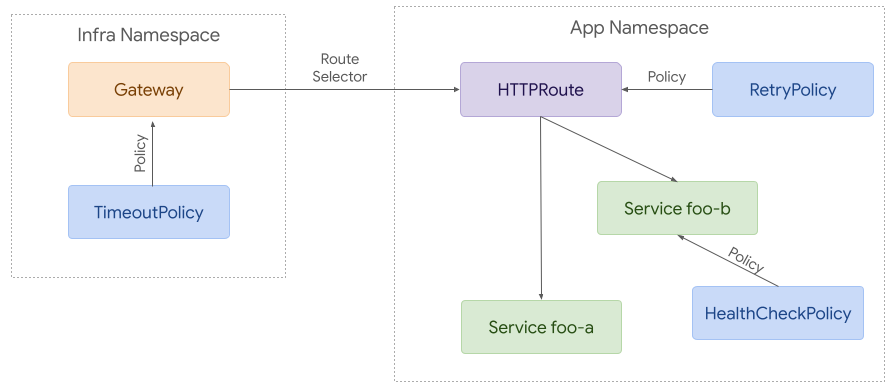
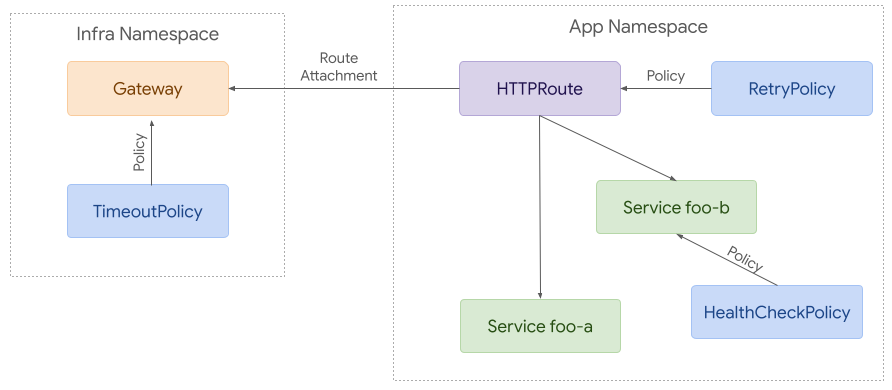
Updating Policy images to match new direction, other doc tweaks

diff --git a/site-src/v1alpha2/references/policy-attachment.md b/site-src/v1alpha2/references/policy-attachment.md
@@ -194,9 +194,9 @@ easier for some implementations to support. These parameters can similarly be
 used to set defaults and requirements for an entire GatewayClass.
 
 ### Targeting External Services
-In some cases (likely limited to mesh) users may want to apply policies to
-requests to external services. To accomplish this, implementations can choose to
-support a refernce to a virtual resource type:
+In some cases (likely limited to mesh or egress) users may want to apply
+policies to requests to external services. To accomplish this, implementations
+can choose to support a refernce to a virtual resource type:
 
 ```yaml
 kind: RetryPolicy
@@ -232,7 +232,7 @@ resource, including policies applied to parent resources.
 
 Each Policy CRD that wants to be supported by this plugin will need to follow
 the API structure defined above and add a
-`gateway.networking.k8s.io/policy-attachment: true` label to the CRD.
+`gateway.networking.k8s.io/policy-attachment: ""` label to the CRD.
 
 ### Status
 In the future, we may consider adding a new `Policies` field to status on
